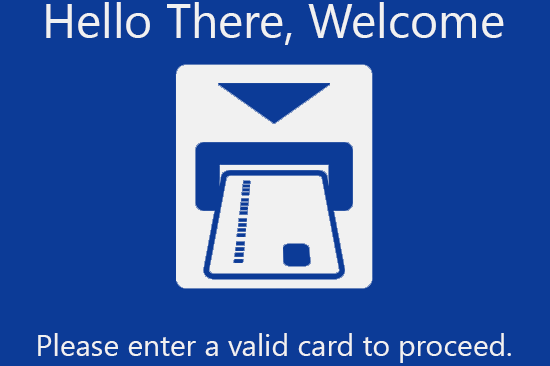
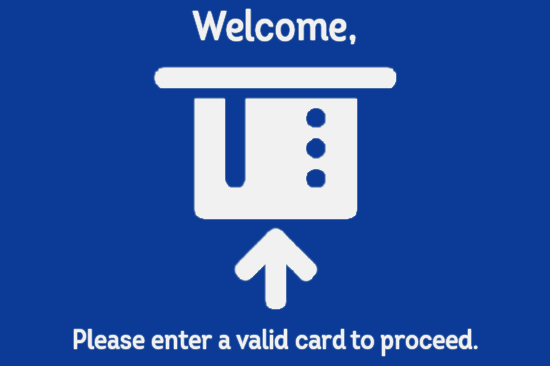
Adds alot of GUI elements and structure - Creates perfect atm loop - Adds new assets - Fixes a minor error with the set isvalid = false in cards. - adds thankspage. - adds switch commands - much more for interface stuff

diff --git a/Interface/PinPage.py b/Interface/PinPage.py
@@ -1,32 +1,34 @@
 #Import Modules
 from tkinter import *
+from pathlib import Path
 
 class PinPage(Frame):
     # Class Description
     """Creates a Frame with NumPad and A Textbox to hold a Pin Number """
-    def __init__(self, parent, *args, **kwargs):
+    def __init__(self, parent, card, *args, **kwargs):
         # Initalizes a frame with the give parameters of the constructor
         Frame.__init__(self, parent, bg=parent['bg'], *args, **kwargs)
 
         # Creates Few Properties to Manipulate the Interface
         self.InputPin = StringVar()
-        self.SelectedCard = "Unknown"
-        self.IsValidPin = BooleanVar()
-        self.background = parent['bg']
+        self.SelectedCard = card
+        self.Background = parent['bg']
+        self.Parent = parent
 
         # Populates The Frame With A NumPad and TextBox Entering Pin With Instruction Message.
-        Label(self,text="Please enter your PIN.",font=("Segoe UI",18),fg="#f1f1f1",bg=self.background).pack(pady=(0,5))
+        self.Photo = PhotoImage(file=Path(__file__).parent / "Assets/Message4.png")
+        Label(self, image=self.Photo, bg=self.Background).pack()
         self.PinTextBox().pack(expand=1, fill=X, padx=2)
         self.NumPad().pack(pady=(8,0))
-        self.StatusMessage = Label(self,text="",font=("Segoe UI",12),fg="#ffd400",bg=self.background)
+        self.StatusMessage = Label(self,text="",font=("Segoe UI",12,'bold'),fg="#ffd400",bg=self.Background)
         self.StatusMessage.pack(pady=(5,0))
 
     def NumPad(self):
         # Method Description:
         """Creates a Frame and populates it with Numbered Buttons"""
 
-        # Create a Frame to hold the various controls/buttons and sets its background.
-        padFrame = Frame(self, bg=self.background)
+        # Create a Frame to hold the various controls/buttons and sets its Background.
+        padFrame = Frame(self, bg=self.Background)
 
         # Initalizes NumPad Buttons and Puts them in different location in a Gird that is auto generated.
         NumPadButton(padFrame, text="1", command=lambda: self.WritePin("1")).grid(row=0,column=0, padx=2, pady=2)
@@ -48,7 +50,7 @@ class PinPage(Frame):
         # Method Description
         """Create The Frame and Textbox to Hold the pin."""
 
-        # Create a Frame to hold the various controls/buttons and sets its background.
+        # Create a Frame to hold the various controls/buttons and sets its Background.
         pinFrame = Frame(self, bg="#333")
         
         # Initalizes an Entry Widget(TextBox) (That Will Show * Instead of The actual Value)
@@ -71,23 +73,19 @@ class PinPage(Frame):
         self.InputPin.set("")
     
     def EnterPin(self):
+        # Method Description
+        """Checks the Entered PIN Pin Value written in the Button"""
         try:
             pin = int(self.InputPin.get())
             if self.SelectedCard.CheckPin(pin):
-                self.pack_forget()
-                print("Welcome To PyATM")
+                self.Parent.OpenServicePage()
             else:
                 if (self.SelectedCard.ErrorCounter < 5):
-                    self.StatusMessage.config(text="Incorrect Pin!, Remaining Retries: "+str(5-self.SelectedCard.ErrorCounter))
+                    self.StatusMessage.config(text="Incorrect Pin, Remaining Retries: "+str(5-self.SelectedCard.ErrorCounter))
                 else:
-                    self.IsValidPin.set(False)
-                    self.pack_forget()
-                    print("Pin has been entered incorrectly too many times, Card deactivated!")
+                    self.Parent.ReturnCard("Invalid")
             self.ClearPin()
         except: pass
-
-    def GetCard(self, card):
-        self.SelectedCard = card
 
     def KeyChecker(self,P,d,s):
         # Method Description
@@ -110,7 +108,7 @@ class NumPadButton(Button):
         self['width'] = 3
         self['padx'] = 21
         self['pady'] = 10
-        self['font'] = ("Segoe UI", 16, "bold")
+        self['font'] = ("Calibri", 18, "bold")
         self['border'] = 0
         self['bg']="#0077cc"
         self['fg']="#f1f1f1"
@@ -135,7 +133,7 @@ class ControlButton (Button):
         self['width'] = 3
         self['padx'] = 21
         self['pady'] = 10
-        self['font'] = ("Segoe UI", 16, "bold")
+        self['font'] = ("Calibri", 18, "bold")
         self['border'] = 0
         self['fg']="#f1f1f1"
         self['activebackground'] = abg

diff --git a/Interface/CardPage.py b/Interface/CardPage.py
@@ -10,29 +10,32 @@ class CardPage(Frame):
         Frame.__init__(self, parent, bg=parent['bg'], *arg, **kwargs)
         
         # Creates Few Properties to Manipulate the Interface.
+        self.Parent = parent
         self.CardIndex = IntVar(value=10)
         self.Background = parent['bg']
         self.Photo = ""
+
+        # Event Handler Trace On Property Change of CardIndex
+        self.CardIndex.trace('w',self.OnCardSelection)
 
         # Populates the frame with the CardButtons.
         self.CardButtons().grid(row=0,column=0,sticky=NSEW)
         # Populates the frame with an instruction Image.
         self.Photo = PhotoImage(file=Path(__file__).parent / "Assets/Message1.png")
-        Label(self, image=self.Photo, bg=self.Background).grid(row=0,column=1,padx=(70,0))
+        Label(self, image=self.Photo, bg=self.Background).grid(row=0,column=1,padx=(95,0))
     
     def CardButtons(self):
         # Method Description:
         """Creates a Frame and populates it with Numbered Card Buttons"""
-
         # Create a Frame to hold the various controls/buttons and sets its background.
         cardFrame = Frame(self, bg=self.Background)
 
         # Initalizes Card Buttons and puts them in column one after another.
-        CardButton(cardFrame,text="Card 1", command=lambda: self.SelectCard(0)).grid(row=0,column=0,pady=5)
-        CardButton(cardFrame,text="Card 2", command=lambda: self.SelectCard(1)).grid(row=1,column=0,pady=5)
-        CardButton(cardFrame,text="Card 3", command=lambda: self.SelectCard(2)).grid(row=2,column=0,pady=5)
-        CardButton(cardFrame,text="Card 4", command=lambda: self.SelectCard(3)).grid(row=3,column=0,pady=5)
-        CardButton(cardFrame,text="Card 5", command=lambda: self.SelectCard(4)).grid(row=4,column=0,pady=5)
+        CardButton(cardFrame,text="Card 1", command=lambda: self.SelectCard(0)).grid(row=0,column=0,pady=8)
+        CardButton(cardFrame,text="Card 2", command=lambda: self.SelectCard(1)).grid(row=1,column=0,pady=8)
+        CardButton(cardFrame,text="Card 3", command=lambda: self.SelectCard(2)).grid(row=2,column=0,pady=8)
+        CardButton(cardFrame,text="Card 4", command=lambda: self.SelectCard(3)).grid(row=3,column=0,pady=8)
+        CardButton(cardFrame,text="Card 5", command=lambda: self.SelectCard(4)).grid(row=4,column=0,pady=8)
         return cardFrame
     
     def SelectCard(self, cardIndex):
@@ -40,6 +43,11 @@ class CardPage(Frame):
         """Selects The Card Index Using the CardButtons"""
         self.CardIndex.set(cardIndex)
 
+    def OnCardSelection(self,a,b,c):
+        # Method Description
+        """Opens PinPage When A Card Is Selected"""
+        if self.CardIndex.get() in (0,1,2,3,4):
+            self.Parent.OpenPinPage(self.CardIndex.get())
 
 # Hardcoded Stylized Widgets: (Subclass of Existing Widgets)
 class CardButton(Button):
@@ -48,17 +56,17 @@ class CardButton(Button):
     def __init__(self, parent, *args, **kwargs):
         # Initalizes A Button, and Hard Codes Few Styles.
         Button.__init__(self, parent, *args, **kwargs)
-        self['padx'] = 18
+        self['width'] = 144
+        self['padx'] = 3
         self['pady'] = 8
-        self['font'] = ("Segoe UI", 14, "bold")
+        self['font'] = ("Calibri", 17, "bold")
         self['border'] = 0
         self['fg']="#f1f1f1"
         self['activebackground'] = "#004373"
         self['activeforeground'] = "#72a3ff"
         self['bg'] = "#0066ae"
-        self.photo = PhotoImage(file=Path(__file__).parent / "Assets/Card1.png") 
-        self.logo = self.photo.subsample(4)      
-        self.config(image=self.logo, compound = LEFT)
+        self.photo = PhotoImage(file=Path(__file__).parent / "Assets/CustomButton1.png")  
+        self.config(image=self.photo, compound = LEFT)
         # Binds the hover over events to a set of functions
         self.bind("<Enter>", self.OnEnter)
         self.bind("<Leave>", self.OnLeave)

diff --git a/Interface/AppWindow.py b/Interface/AppWindow.py
@@ -1,5 +1,11 @@
-from tkinter import *
 from pathlib import Path
+from tkinter import *
+from Interface.CardPage import CardPage
+from Interface.PinPage import PinPage
+from Interface.ThanksPage import ThanksPage
+from Interface.ServicePage import ServicePage
+from Modules.CardModule import PredefinedCards
+
 
 class Window(Tk):
     # Class Description
@@ -16,18 +22,74 @@ class Window(Tk):
         #Sets Few attributes about the Window
         self.title = "PyATM"
         self['bg'] = "#0c3b97"
+
         # Set adds a background Image.
         self.Photo = PhotoImage(file=Path(__file__).parent / "Assets/Backdrop.png")
         Label(self, image=self.Photo).place(x=0, y=0, relwidth=1, relheight=1)
-
         # Removes the option to maximize.
         self.resizable(0,0)
-
         # Sets the window to the Center On launch.
         self.CenterWindow()
+        # Pack in the first Page and saves it in a attribute!
+        self.ReturnButton=ReturnCardButton(self, command=self.ReturnCard)
+        self.CurrentPage=CardPage(self)
+        self.CurrentPage.pack(side=LEFT, padx=(35,0))
     
     def CenterWindow(self):
+        # Method Description
         """Center the window on launch depending on the screen size."""
         x = (self.winfo_screenwidth()/2) - (self.width/2)
         y = (self.winfo_screenheight()/2) - (self.height/2) - 40
         self.geometry('+%d+%d' % (x, y))
+
+    def ReturnCard(self, mode="normal"):
+        # Method Description
+        """Returns Card and Resets the matchine"""
+        self.CurrentPage.destroy()
+        TempPage = ThanksPage(self,mode)
+        TempPage.pack(pady=(140,0))
+        TempPage.after(2500,TempPage.destroy)
+        self.ReturnButton.pack_forget()
+        self.CurrentPage=CardPage(self)
+        self.after(2500,lambda: self.CurrentPage.pack(side=LEFT, padx=(35,0)))
+
+    def OpenPinPage(self, cardIndex):
+        # Method Description
+        """Switches to Pin Page If Card is valid, else returns card"""
+        if PredefinedCards[cardIndex].IsValid:
+            self.ReturnButton.pack(side=TOP, padx=(890,0), pady=(30,0))
+            self.CurrentPage.destroy()
+            self.CurrentPage=PinPage(self, PredefinedCards[cardIndex])
+            self.CurrentPage.pack(side=TOP, pady=(45,0))
+        else :
+            self.ReturnCard("Invalid")
+
+    def OpenServicePage(self):
+        # Method Description
+        """Switches to the Service Page"""
+        self.CurrentPage.destroy()
+        self.CurrentPage=ServicePage(self)
+        self.CurrentPage.pack(side=TOP)
+
+class ReturnCardButton(Button):
+     # Class Description
+    """Stylized Buttons For Use In ATM Pin Controls"""
+    def __init__(self, parent, *args, **kwargs):
+        # Initalizes A Button, and Hard Codes Few Styles.
+        Button.__init__(self, parent, *args, **kwargs)
+        self['border'] = 0
+        self['fg']="#f1f1f1"
+        self['activebackground'] = "#004373"
+        self['activeforeground'] = "#72a3ff"
+        self['bg'] = "#0c3b97"
+        self.photo = PhotoImage(file=Path(__file__).parent / "Assets/CustomButton2.png")    
+        self.config(image=self.photo, compound = LEFT)
+        # Binds the hover over events to a set of functions
+        self.bind("<Enter>", self.OnEnter)
+        self.bind("<Leave>", self.OnLeave)
+    # When Mouse is Over
+    def OnEnter(self, e):
+        self['bg'] = "#0066ae"
+    # When Mouse Leaves
+    def OnLeave(self, e):
+        self['bg'] = "#0c3b97"

diff --git a/GUI.py b/GUI.py
@@ -1,30 +1,5 @@
 # Imports Interface and tkinter modules
-from Interface.AppWindow import *
-from Interface.CardPage import *
-from Interface.PinPage import *
-from tkinter import *
-from Modules import CardModule
+from Interface.AppWindow import Window
 
-# Code For Testing, Will be commented next commit when finilized.
-# i am done FAR FAR from done it.
-# this script is mostly experimental
-# it will be rewritten
-# But do run this script to see where the GUI is at.
-
-print()
-def CardCheck(a,b,c):
-    if cardPage.CardIndex.get() in (0,1,2,3,4):
-        cardPage.pack_forget()
-        SelectedCardIndex = cardPage.CardIndex.get()
-        pinPage.GetCard(CardModule.PredefinedCards[SelectedCardIndex])
-        print(pinPage.SelectedCard.UserName)
-        pinPage.pack(side=LEFT, padx=(428,0))
-
-root = Window()
-cardPage = CardPage(root)
-pinPage = PinPage(root)
-cardPage.pack(side=LEFT, padx=(35,0))
-cardPage.CardIndex.trace('w',CardCheck)
-if cardPage.CardIndex.get() in (0,1,2,3,4):
-    cardPage.pack_forget()
-root.mainloop()
+# Run this code to see magic happen
+Window().mainloop()

diff --git a/Interface/ThanksPage.py b/Interface/ThanksPage.py
@@ -1,0 +1,26 @@
+from tkinter import *
+from pathlib import Path
+
+class ThanksPage(Frame):
+    # Class Description
+    """Creates a Frame that Ask to Enter A Card / Select Preset One."""
+    def __init__(self, parent, mode="normal", *arg, **kwargs):
+        # Initalizes a frame with the give parameters of the constructor.
+        Frame.__init__(self, parent, bg=parent['bg'], *arg, **kwargs)
+        
+        # Creates Few Properties to Manipulate the Interface.
+        self.Parent = parent
+        self.Background = parent['bg']
+        self.Mode = mode
+        self.Photo = ""
+
+        # Populates the frame with an instruction Image.
+        self.SelectMessage().pack()
+        
+    def SelectMessage(self):
+        if self.Mode == "Invalid":
+            self.Photo = PhotoImage(file=Path(__file__).parent / "Assets/Message3.png")
+        else:
+            self.Photo = PhotoImage(file=Path(__file__).parent / "Assets/Message2.png")
+        Message = Label(self, image=self.Photo, bg=self.Background)
+        return Message

diff --git a/Interface/ServicePage.py b/Interface/ServicePage.py
@@ -1,0 +1,14 @@
+from tkinter import *
+
+class ServicePage(Frame):
+    # Class Description
+    """Creates a Frame that holds the service options """
+    def __init__(self, parent, *args, **kwargs):
+        # Initalizes a frame with the give parameters of the constructor
+        Frame.__init__(self, parent, bg=parent['bg'], *args, **kwargs)
+
+        # Creates Few Properties to Manipulate the Interface
+        self.Background = parent['bg']
+
+        # Populates the Frame
+        Label(self,text="Services Under CONSTRUCTION",font=("Calibri", 18, "bold"),fg="#f1f1f1",bg=self.Background).pack(pady=20)
